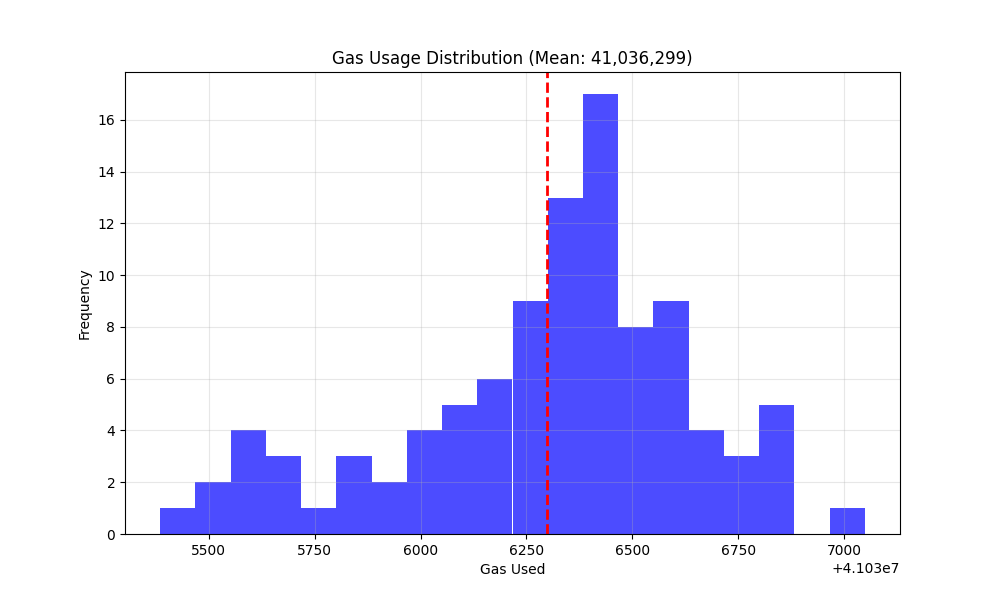
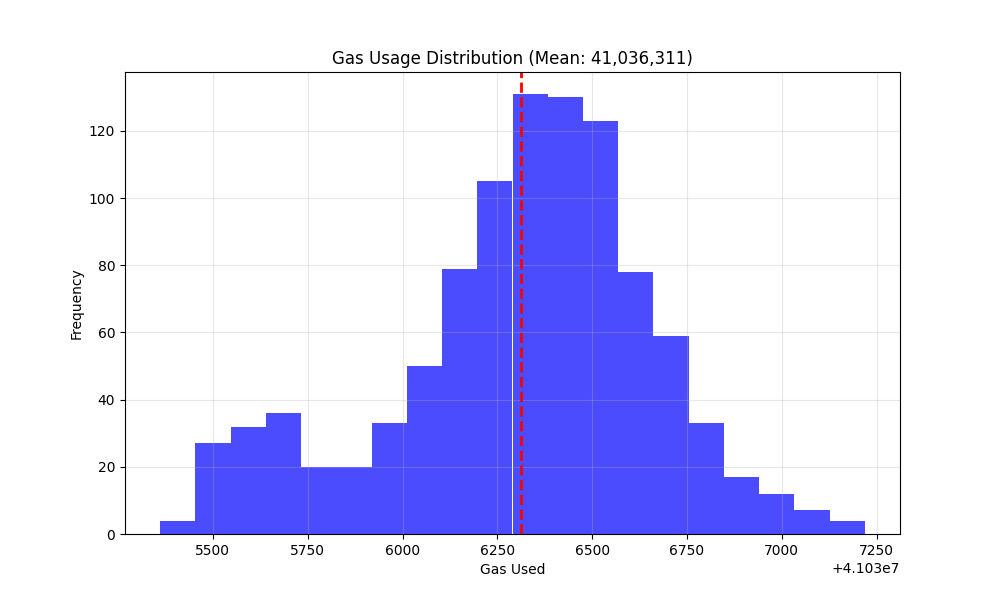
initial commit

diff --git a/README.md b/README.md
@@ -4,7 +4,7 @@ A fully on-chain neural network implementation for MNIST digit classification, d
 
 ## Overview
 
-This project implements a neural network for MNIST handwritten digit classification directly on-chain using Solidity. The model achieves 98% accuracy while being fully executable on the EVM.
+This project implements a neural network for MNIST handwritten digit classification directly on-chain using Solidity. The model achieves 94% accuracy while being fully executable on the EVM.
 
 ![MNIST Results](mnist_onchain_results.png)
 
@@ -76,14 +76,15 @@ python evaluate.py --contract <CONTRACT_ADDRESS> --rpc <RPC_URL> --samples 100
 Performance metrics from on-chain testing:
 
 ```
-Total images tested: 100
-Correct predictions: 98
-On-chain accuracy: 98.00%
-
+Results:
+  Total images tested: 1000
+  Correct predictions: 938
+  On-chain accuracy: 93.80%
 Gas Usage:
-Average gas per inference: 41,036,299
-Min gas: 41,035,385
-Max gas: 41,037,049
+  Average gas per inference: 41,036,311
+  Min gas: 41,035,361
+  Max gas: 41,037,219
+  Gas price: 0.00 Gwei
 ```
 
 ### Gas Usage Distribution
@@ -95,16 +96,16 @@ Max gas: 41,037,049
 ```
        0    1    2    3    4    5    6    7    8    9
     --------------------------------------------------
-0 |    8    0    0    0    0    0    0    0    0    0
-1 |    0   14    0    0    0    0    0    0    0    0
-2 |    0    0    8    0    0    0    0    0    0    0
-3 |    0    1    0   10    0    0    0    0    0    0
-4 |    0    0    0    0   14    0    0    0    0    0
-5 |    0    0    0    0    0    6    0    0    1    0
-6 |    0    0    0    0    0    0   10    0    0    0
-7 |    0    0    0    0    0    0    0   15    0    0
-8 |    0    0    0    0    0    0    0    0    2    0
-9 |    0    0    0    0    0    0    0    0    0   11
+0 |   73    0    1    0    0    5    0    3    2    1
+1 |    0  125    0    1    0    0    0    0    0    0
+2 |    0    1  110    1    0    0    0    3    0    1
+3 |    0    1    1  102    0    1    0    2    0    0
+4 |    0    1    1    0   98    0    0    0    1    9
+5 |    0    0    0    5    0   80    0    0    2    0
+6 |    3    0    3    0    0    1   80    0    0    0
+7 |    0    0    1    0    0    0    0   98    0    0
+8 |    0    0    1    4    1    0    0    1   80    2
+9 |    0    0    0    0    0    0    0    1    1   92
 ```
 
 ## Preprocessing Details
